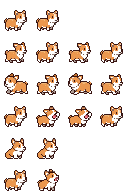
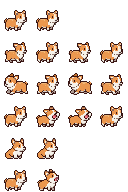
양몰이 v5.47: 아기 보더콜리·아기 코기 그림의 흰 털(가슴·얼굴·발)이 투명 구멍이던 것 메움 — 마당에서 풀밭이 비쳐 보였음. 아기 시트 ?v= 붙임

diff --git a/sheepdog-v5/그림.js b/sheepdog-v5/그림.js
@@ -11,7 +11,7 @@ const 그림 = {
   시작(canvas) {
     그림.화면 = canvas; 그림.c = canvas.getContext("2d"); 그림.c.imageSmoothingEnabled = false;
     const 불러올 = [["양","양_동작.png"],["늑대","늑대.png"],["여우","여우.png"],["마당","yard.png"],["마당앞","yard_front.png"],["상자","배경/상자.png"],["상자앞","배경/상자앞.png"]];
-    견종순서.forEach(k => { 불러올.push(["개_"+k, "개/"+k+".png"]); 불러올.push(["개_"+k+"_아기", "개/"+k+"_아기.png"]); 불러올.push(["얼굴_"+k, "얼굴/"+k+".png"]); 불러올.push(["터그_"+k, "터그/"+k+".png"]); });   // 아기·얼굴 시트는 있으면 쓰고 없으면 넘어간다   // ★ 아기·앞겹 시트는 있으면 쓰고 없으면 그냥 넘어간다
+    견종순서.forEach(k => { 불러올.push(["개_"+k, "개/"+k+".png"]); 불러올.push(["개_"+k+"_아기", "개/"+k+"_아기.png?v=5.47"]); 불러올.push(["얼굴_"+k, "얼굴/"+k+".png"]); 불러올.push(["터그_"+k, "터그/"+k+".png"]); });   // 아기·얼굴 시트는 있으면 쓰고 없으면 넘어간다   // ★ 아기·앞겹 시트는 있으면 쓰고 없으면 그냥 넘어간다
     // ★ 2026-09-25 골든리트리버 새 그림(형이 Gemini 로 뽑은 시트 → 32칸). 못 불러오면 옛 시트 그대로
     불러올.push(["개_골든리트리버_새","개/golden.png"], ["개_골든리트리버_뒤","개/golden_back.png"]);
     불러올.forEach(([키, 경로]) => { const im = new Image(); im.onload=()=>{ 그림.시트[키]=im; }; im.onerror=()=>{}; im.src=경로; });

diff --git a/sheepdog/그림.js b/sheepdog/그림.js
@@ -11,7 +11,7 @@ const 그림 = {
   시작(canvas) {
     그림.화면 = canvas; 그림.c = canvas.getContext("2d"); 그림.c.imageSmoothingEnabled = false;
     const 불러올 = [["양","양_동작.png"],["늑대","늑대.png"],["여우","여우.png"],["마당","yard.png"],["마당앞","yard_front.png"],["상자","배경/상자.png"],["상자앞","배경/상자앞.png"]];
-    견종순서.forEach(k => { 불러올.push(["개_"+k, "개/"+k+".png"]); 불러올.push(["개_"+k+"_아기", "개/"+k+"_아기.png"]); 불러올.push(["얼굴_"+k, "얼굴/"+k+".png"]); 불러올.push(["터그_"+k, "터그/"+k+".png"]); });   // 아기·얼굴 시트는 있으면 쓰고 없으면 넘어간다   // ★ 아기·앞겹 시트는 있으면 쓰고 없으면 그냥 넘어간다
+    견종순서.forEach(k => { 불러올.push(["개_"+k, "개/"+k+".png"]); 불러올.push(["개_"+k+"_아기", "개/"+k+"_아기.png?v=5.47"]); 불러올.push(["얼굴_"+k, "얼굴/"+k+".png"]); 불러올.push(["터그_"+k, "터그/"+k+".png"]); });   // 아기·얼굴 시트는 있으면 쓰고 없으면 넘어간다   // ★ 아기·앞겹 시트는 있으면 쓰고 없으면 그냥 넘어간다
     // ★ 2026-09-25 골든리트리버 새 그림(형이 Gemini 로 뽑은 시트 → 32칸). 못 불러오면 옛 시트 그대로
     불러올.push(["개_골든리트리버_새","개/golden.png"], ["개_골든리트리버_뒤","개/golden_back.png"]);
     불러올.forEach(([키, 경로]) => { const im = new Image(); im.onload=()=>{ 그림.시트[키]=im; }; im.onerror=()=>{}; im.src=경로; });

diff --git a/sheepdog-v5/index.html b/sheepdog-v5/index.html
@@ -29,15 +29,15 @@
 <video id="인트로" playsinline preload="none"></video>
 <!-- 🚨 파일 이름이 한글이면 Cloudflare 의 캐시 규칙(_headers 의 *.js)이 안 걸린다.
      그래서 주소 뒤에 판 번호를 붙여 캐시를 넘긴다. 코드를 고치면 이 v= 를 같이 올릴 것. -->
-<script src="자료.js?v=5.46"></script>
-<script src="문구.js?v=5.46"></script>
-<script src="저장.js?v=5.46"></script>
-<script src="소리.js?v=5.46"></script>
-<script src="광고.js?v=5.46"></script>
-<script src="그림.js?v=5.46"></script>
-<script src="규칙_생성기.js?v=5.46"></script>
-<script src="게임.js?v=5.46"></script>
-<script src="화면.js?v=5.46"></script>
+<script src="자료.js?v=5.47"></script>
+<script src="문구.js?v=5.47"></script>
+<script src="저장.js?v=5.47"></script>
+<script src="소리.js?v=5.47"></script>
+<script src="광고.js?v=5.47"></script>
+<script src="그림.js?v=5.47"></script>
+<script src="규칙_생성기.js?v=5.47"></script>
+<script src="게임.js?v=5.47"></script>
+<script src="화면.js?v=5.47"></script>
 <script>
 (function(){
   const 캔버스=document.getElementById("캔버스"); let 배율=1;

diff --git a/sheepdog/index.html b/sheepdog/index.html
@@ -29,15 +29,15 @@
 <video id="인트로" playsinline preload="none"></video>
 <!-- 🚨 파일 이름이 한글이면 Cloudflare 의 캐시 규칙(_headers 의 *.js)이 안 걸린다.
      그래서 주소 뒤에 판 번호를 붙여 캐시를 넘긴다. 코드를 고치면 이 v= 를 같이 올릴 것. -->
-<script src="자료.js?v=5.46"></script>
-<script src="문구.js?v=5.46"></script>
-<script src="저장.js?v=5.46"></script>
-<script src="소리.js?v=5.46"></script>
-<script src="광고.js?v=5.46"></script>
-<script src="그림.js?v=5.46"></script>
-<script src="규칙_생성기.js?v=5.46"></script>
-<script src="게임.js?v=5.46"></script>
-<script src="화면.js?v=5.46"></script>
+<script src="자료.js?v=5.47"></script>
+<script src="문구.js?v=5.47"></script>
+<script src="저장.js?v=5.47"></script>
+<script src="소리.js?v=5.47"></script>
+<script src="광고.js?v=5.47"></script>
+<script src="그림.js?v=5.47"></script>
+<script src="규칙_생성기.js?v=5.47"></script>
+<script src="게임.js?v=5.47"></script>
+<script src="화면.js?v=5.47"></script>
 <script>
 (function(){
   const 캔버스=document.getElementById("캔버스"); let 배율=1;

diff --git a/sheepdog-v5/sw.js b/sheepdog-v5/sw.js
@@ -1,5 +1,5 @@
 // sw.js — 양몰이 v5.0. 파일 바꾸면 판 문자열을 올린다.
-const 판 = "양몰이-v5.46";
+const 판 = "양몰이-v5.47";
 const 핵심 = ["./","index.html","manifest.json","자료.js","문구.js","저장.js","소리.js","광고.js","그림.js","규칙_생성기.js","게임.js","화면.js","아이콘.png",
   "양_동작.png","늑대.png","여우.png","개/보더콜리.png","개/코기.png","개/골든리트리버.png","개/golden.png","개/golden_back.png","개/진도견.png","개/삽살개.png","개/저먼셰퍼드.png",
   "소리/누름.mp3","소리/들임.mp3","소리/배경_목장.mp3","소리/배경_첫화면.mp3","소리/양.mp3","소리/이김.mp3","소리/짐.mp3","소리/짖기.mp3","소리/짖기_보더콜리.mp3","소리/짖기_골든리트리버.mp3",

diff --git a/sheepdog/sw.js b/sheepdog/sw.js
@@ -1,5 +1,5 @@
 // sw.js — 양몰이 v5.0. 파일 바꾸면 판 문자열을 올린다.
-const 판 = "양몰이-v5.46";
+const 판 = "양몰이-v5.47";
 const 핵심 = ["./","index.html","manifest.json","자료.js","문구.js","저장.js","소리.js","광고.js","그림.js","규칙_생성기.js","게임.js","화면.js","아이콘.png",
   "양_동작.png","늑대.png","여우.png","개/보더콜리.png","개/코기.png","개/골든리트리버.png","개/golden.png","개/golden_back.png","개/진도견.png","개/삽살개.png","개/저먼셰퍼드.png",
   "소리/누름.mp3","소리/들임.mp3","소리/배경_목장.mp3","소리/배경_첫화면.mp3","소리/양.mp3","소리/이김.mp3","소리/짐.mp3","소리/짖기.mp3","소리/짖기_보더콜리.mp3","소리/짖기_골든리트리버.mp3",
